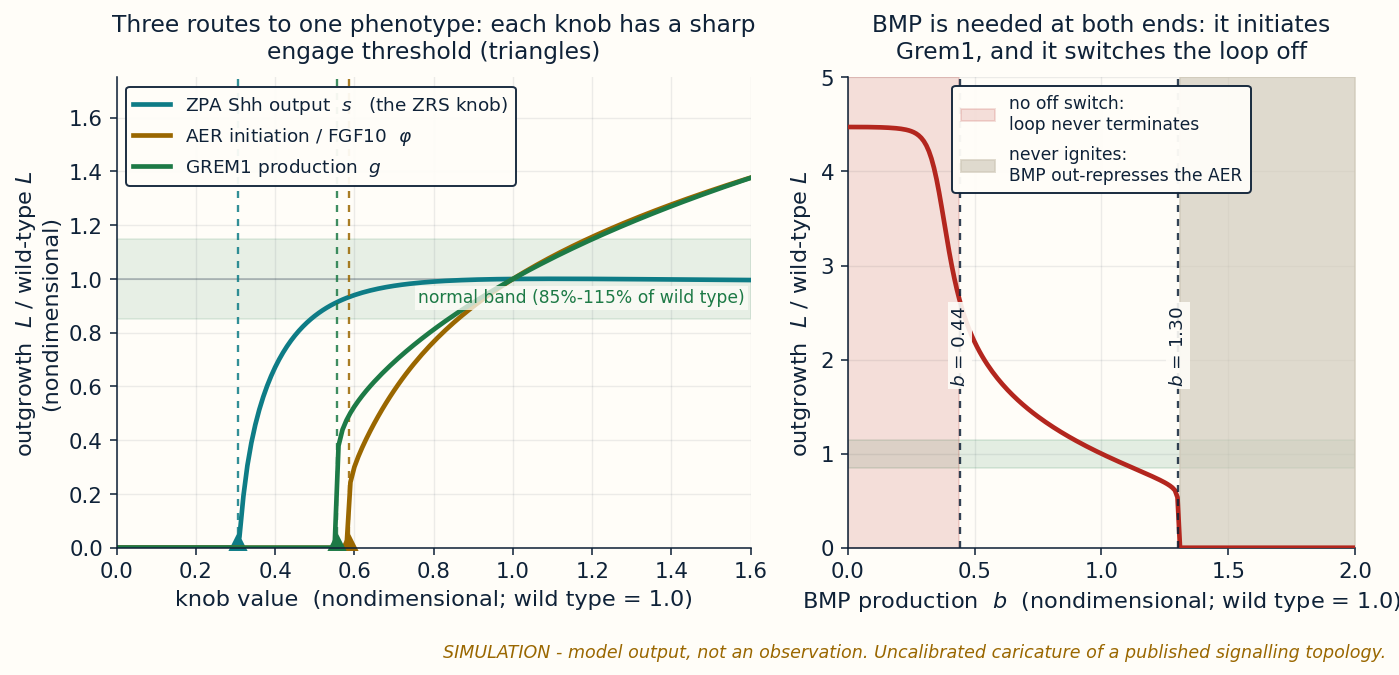
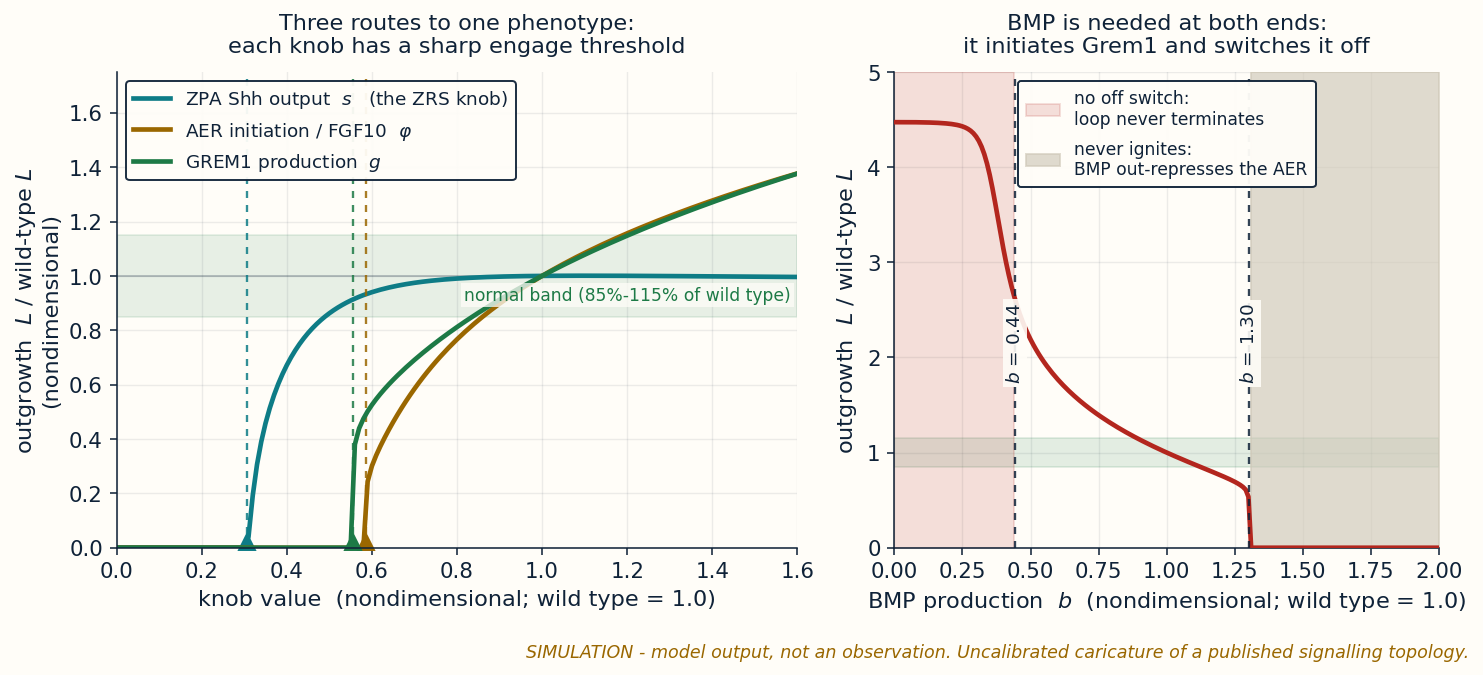
Limbless mouse: restore the half of the question that was cut
The ZRS question line reads "What can you see in the alignment, and what
can't you?" The second clause was lost to a message limit when the agent
sent it, and it was the half doing the work. Without it the line invites a
reader to expect a finding and stop; with it the page is committed to also
saying that overall identity does not separate the groups, that total ETS1
motif count does not either (rattlesnake 7, elephant shark 5, python 5), and
that four ortholog knock-ins split along snake and non-snake cannot tell you
whether this particular site is the special one.

Also takes the final threshold figure, whose two titles are now balanced
over two lines with measured headroom - the right one ends 122 px short of
the figure boundary - rather than clipped. The control and phase-map figures
came back byte-identical for a third consecutive run, across a code edit
that touched only the third figure.

One correction to my own report: I said the clipped titles were in the file
I had integrated. They were in the screenshot I took BEFORE the first fix.
The file in the tree was the intermediate version (776fa698), not the
original, and it is now the current one (9e92450e).

diff --git a/results/limbless-mouse/code/shh_loop.py b/results/limbless-mouse/code/shh_loop.py
@@ -687,7 +687,7 @@ def fig_control(path):
 
 
 def fig_threshold(path, sweeps, L_wt):
-    fig, axes = plt.subplots(1, 2, figsize=(10.0, 4.8), dpi=140,
+    fig, axes = plt.subplots(1, 2, figsize=(10.6, 4.8), dpi=140,
                              gridspec_kw=dict(width_ratios=[1.25, 1.0]))
     fig.patch.set_facecolor(BG)
     for ax in axes:
@@ -712,8 +712,10 @@ def fig_threshold(path, sweeps, L_wt):
     ax.set_ylabel("outgrowth  $L$ / wild-type $L$\n(nondimensional)", fontsize=11.5)
     ax.set_xlim(0, 1.6)
     ax.set_ylim(0, 1.75)
-    ax.set_title("Three routes to one phenotype: each knob has a sharp\n"
-                 "engage threshold (triangles)", fontsize=12, color=INK, pad=10)
+    # Titles are deliberately short and balanced across two lines: at this figure width the
+    # longest line must stay under roughly 40 characters or it crowds the panel edge.
+    ax.set_title("Three routes to one phenotype:\neach knob has a sharp engage threshold",
+                 fontsize=11.5, color=INK, pad=10)
     leg = ax.legend(loc="upper left", fontsize=9.5, framealpha=0.95, facecolor=BG,
                     edgecolor=INK)
     for t in leg.get_texts():
@@ -741,8 +743,8 @@ def fig_threshold(path, sweeps, L_wt):
     ax.set_ylabel("outgrowth  $L$ / wild-type $L$", fontsize=11.5)
     ax.set_xlim(0, 2.0)
     ax.set_ylim(0, 5.0)
-    ax.set_title("BMP is needed at both ends: it initiates\nGrem1, and it switches the loop off",
-                 fontsize=12, color=INK, pad=10)
+    ax.set_title("BMP is needed at both ends:\nit initiates Grem1 and switches it off",
+                 fontsize=11.5, color=INK, pad=10)
     leg = ax.legend(loc="upper center", fontsize=8.8, framealpha=0.96, facecolor=BG,
                     edgecolor=INK, borderpad=0.5, labelspacing=0.7)
     for t in leg.get_texts():

diff --git a/docs/dossier/13-limbless-mouse-design-space.md b/docs/dossier/13-limbless-mouse-design-space.md
@@ -277,7 +277,7 @@ Three studies, each a **simulation or a sequence analysis**. None is an observat
 
 *sequence analysis · molecular scale*
 
-**The design question it answers.** Kvon et al. swapped the mouse ZRS for orthologs from other species: human and coelacanth gave normal limbs, python and king cobra truncated them. The python ZRS is about as similar to mouse as the coelacanth's is, so whatever separates them is not overall sequence similarity. What can you see in the alignment?
+**The design question it answers.** Kvon et al. swapped the mouse ZRS for orthologs from other species: human and coelacanth gave normal limbs, python and king cobra truncated them. The python ZRS is about as similar to mouse as the coelacanth's is, so whatever separates them is not overall sequence similarity. What can you see in the alignment, and what can't you?
 
 Real ZRS orthologs fetched from NCBI, aligned here, with per-column conservation and ETS1 motif positions. The contrast of interest is between the orthologs that gave normal limbs in the published knock-in and the ones that truncated them. This is a correlational reading of a handful of sequences; it is not a predictor of enhancer activity and is not used as one anywhere on this page. The causal evidence is Kvon et al.'s mouse genetics, not this alignment.
 
